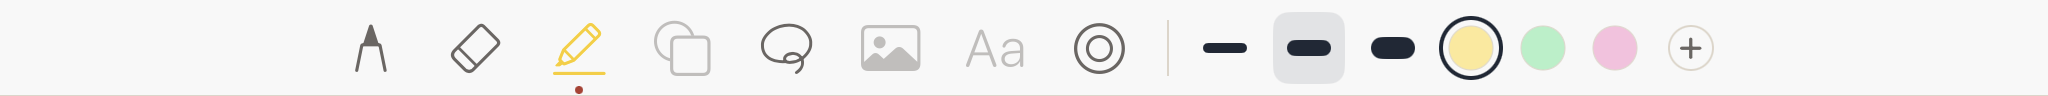
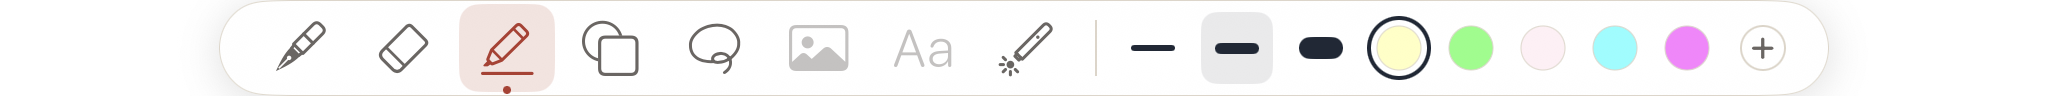
feat(EmberPad): give every tool a picture of itself, a fountain pen nib for the pen (EP105)
The fountain pen showed SF Symbols' pencil.tip, which reads as a marker, and the
laser pointer a plain target. SF Symbols has no fountain pen or laser pointer, so
both are now original template vectors in the asset catalog (ToolFountainPen: a
pen with a split nib and breather hole; ToolLaserPointer: a pointer casting a
spot with rays), turned 45 degrees and stroked to match the light SF Symbols of
the eraser, highlighter, shapes and lasso. WorksheetTool.icon replaces .symbol,
and the palette and the Pencil switch toast draw it through one ToolIconImage
view, so the selected red and unselected grey apply to every tool alike.

ToolIconTests pins each tool to its intended icon, fails if the fountain pen
ever shows a marker or pencil symbol, and checks every asset loads as a
template. Before and after captures are in docs/screenshots/ep105.

Changed region(s): [[0.125, 0.0, 0.875, 0.9688], [0.8438, 0.9688, 1.0, 1.0], [0.0, 0.9688, 0.1562, 1.0]]

diff --git a/Apps/EmberPadTests/ToolIconTests.swift b/Apps/EmberPadTests/ToolIconTests.swift
@@ -1,0 +1,115 @@
+import SwiftUI
+import UIKit
+import XCTest
+@testable import EmberPad
+
+/// EP105: every tool shows a picture of itself on the palette and in its toasts. The fountain pen is EmberPad's own
+/// nib drawing, never a marker-like SF Symbol such as `pencil.tip`, which it showed before.
+@MainActor
+final class ToolIconTests: XCTestCase {
+    private var suiteName = ""
+    private var defaults: UserDefaults!
+
+    override func setUp() {
+        super.setUp()
+        suiteName = "EmberPadTests.ToolIcon.\(UUID().uuidString)"
+        defaults = UserDefaults(suiteName: suiteName)
+    }
+
+    override func tearDown() {
+        defaults.removePersistentDomain(forName: suiteName)
+        defaults = nil
+        super.tearDown()
+    }
+
+    func testEachToolMapsToItsIntendedIcon() {
+        let expected: [WorksheetTool: ToolIcon] = [
+            .pen: .asset("ToolFountainPen"),
+            .eraser: .system("eraser"),
+            .highlighter: .system("highlighter"),
+            .shape: .system("square.on.circle"),
+            .lasso: .system("lasso"),
+            .laser: .asset("ToolLaserPointer"),
+        ]
+        XCTAssertEqual(Set(expected.keys), Set(WorksheetTool.allCases), "every tool has an intended icon")
+        for tool in WorksheetTool.allCases {
+            XCTAssertEqual(tool.icon, expected[tool], "\(tool.title)")
+        }
+    }
+
+    func testTheFountainPenIsNeverAMarkerOrPencil() {
+        // SF Symbols that draw a felt tip, chisel, pencil or brush rather than a fountain pen's nib.
+        let notAFountainPen: Set<String> = [
+            "pencil.tip", "pencil.tip.crop.circle", "applepencil.tip", "pencil", "pencil.line", "highlighter",
+            "paintbrush", "paintbrush.pointed", "pencil.and.scribble", "applepencil",
+        ]
+        if case .system(let symbol) = WorksheetTool.pen.icon {
+            XCTAssertFalse(notAFountainPen.contains(symbol), "the fountain pen shows \(symbol), a marker or pencil")
+        }
+        XCTAssertEqual(WorksheetTool.pen.icon, .asset("ToolFountainPen"), "EmberPad's own fountain pen nib")
+    }
+
+    func testEveryToolIconIsDistinct() {
+        let icons = WorksheetTool.allCases.map(\.icon)
+        XCTAssertEqual(Set(icons).count, icons.count, "no two tools share a picture")
+        XCTAssertNotEqual(WorksheetTool.pen.icon, WorksheetTool.highlighter.icon)
+    }
+
+    /// An icon that does not load would leave a blank button, so every one must resolve, and the drawings must be
+    /// template images so they take the palette's grey and selected red.
+    func testEveryToolIconLoadsAsATemplate() throws {
+        for tool in WorksheetTool.allCases {
+            switch tool.icon {
+            case .system(let name):
+                XCTAssertNotNil(UIImage(systemName: name), "\(tool.title): SF Symbol \(name)")
+            case .asset(let name):
+                let image = try XCTUnwrap(UIImage(named: name, in: .main, with: nil), "\(tool.title): asset \(name)")
+                XCTAssertEqual(image.renderingMode, .alwaysTemplate, "\(tool.title) takes the tint")
+                XCTAssertGreaterThan(image.size.width, 0)
+                XCTAssertEqual(image.size.width, image.size.height, "a square box, like a symbol")
+            }
+        }
+    }
+
+    /// The fountain pen's drawing is not blank and is not the marker-like symbol it replaced.
+    func testTheFountainPenDrawingDiffersFromTheOldMarkerSymbol() throws {
+        let side: CGFloat = 56
+        let nib = try XCTUnwrap(UIImage(named: "ToolFountainPen", in: .main, with: nil))
+        let marker = try XCTUnwrap(UIImage(systemName: "pencil.tip"))
+        let nibInk = inkMask(nib, side: side)
+        let markerInk = inkMask(marker, side: side)
+        XCTAssertGreaterThan(nibInk.filter { $0 }.count, 80, "the nib drawing has ink")
+        let differing = zip(nibInk, markerInk).filter { $0 != $1 }.count
+        XCTAssertGreaterThan(differing, nibInk.count / 20, "the fountain pen does not look like pencil.tip")
+    }
+
+    func testPencilSwitchBackToThePenToastsTheFountainPen() {
+        let tools = ToolState(defaults: defaults)
+        tools.select(.eraser)
+        XCTAssertEqual(tools.handlePencil(.switchEraser, gesture: .doubleTap), .select(.pen))
+        XCTAssertEqual(tools.toast?.icon, .asset("ToolFountainPen"))
+    }
+
+    // MARK: - Helpers
+
+    /// Which pixels of the image, drawn black into a `side` square, carry ink.
+    private func inkMask(_ image: UIImage, side: CGFloat) -> [Bool] {
+        let format = UIGraphicsImageRendererFormat()
+        format.scale = 1
+        let rendered = UIGraphicsImageRenderer(size: CGSize(width: side, height: side), format: format).image { _ in
+            UIColor.white.setFill()
+            UIRectFill(CGRect(x: 0, y: 0, width: side, height: side))
+            image.withTintColor(.black, renderingMode: .alwaysOriginal).draw(in: CGRect(x: 0, y: 0, width: side, height: side))
+        }
+        guard let cg = rendered.cgImage, let data = cg.dataProvider?.data, let bytes = CFDataGetBytePtr(data) else { return [] }
+        let perPixel = cg.bitsPerPixel / 8
+        var mask: [Bool] = []
+        for y in 0..<cg.height {
+            for x in 0..<cg.width {
+                let offset = y * cg.bytesPerRow + x * perPixel
+                mask.append(Int(bytes[offset]) + Int(bytes[offset + 1]) + Int(bytes[offset + 2]) < 384)
+            }
+        }
+        return mask
+    }
+}

diff --git a/Apps/EmberPad/ToolState.swift b/Apps/EmberPad/ToolState.swift
@@ -20,16 +20,25 @@ enum WorksheetTool: String, CaseIterable, Codable, Sendable {
         }
     }
 
-    var symbol: String {
+    /// The tool's picture on the palette and in its toasts (EP105). SF Symbols where one shows the tool; the fountain
+    /// pen and laser pointer have none, so they are EmberPad's own vector drawings in the asset catalog.
+    var icon: ToolIcon {
         switch self {
-        case .lasso: "lasso"
-        case .pen: "pencil.tip"
-        case .highlighter: "highlighter"
-        case .eraser: "eraser"
-        case .laser: "circle.circle"
-        case .shape: "square.on.circle"
+        case .lasso: .system("lasso")
+        case .pen: .asset("ToolFountainPen")
+        case .highlighter: .system("highlighter")
+        case .eraser: .system("eraser")
+        case .laser: .asset("ToolLaserPointer")
+        case .shape: .system("square.on.circle")
         }
     }
+}
+
+/// A tool's picture: an SF Symbol, or an original template vector in the asset catalog for a tool SF Symbols has no
+/// picture of (EP105).
+enum ToolIcon: Hashable, Sendable {
+    case system(String)
+    case asset(String)
 }
 
 enum EraserMode: String, CaseIterable, Codable, Sendable {
@@ -291,7 +300,7 @@ enum PencilCommand: Equatable, Sendable {
 /// A transient capsule message over the worksheet (design 5.4).
 struct ToolToast: Equatable, Identifiable {
     let id = UUID()
-    let symbol: String
+    let icon: ToolIcon
     let text: String
 }
 
@@ -371,7 +380,7 @@ final class ToolState {
         case .none: break
         case .select(let tool):
             select(tool)
-            showToast(symbol: tool.symbol, text: "\(toolTitle(tool)) · \(gesture.title)")
+            showToast(icon: tool.icon, text: "\(toolTitle(tool)) · \(gesture.title)")
         case .openSettings:
             settingsTool = settings.current
         }
@@ -484,8 +493,13 @@ final class ToolState {
 
     // MARK: - Toasts
 
+    /// Shows a toast with an SF Symbol.
     func showToast(symbol: String, text: String) {
-        let next = ToolToast(symbol: symbol, text: text)
+        showToast(icon: .system(symbol), text: text)
+    }
+
+    func showToast(icon: ToolIcon, text: String) {
+        let next = ToolToast(icon: icon, text: text)
         toast = next
         toastTask?.cancel()
         toastTask = Task { [weak self] in

diff --git a/Apps/EmberPad/ToolbarStrip.swift b/Apps/EmberPad/ToolbarStrip.swift
@@ -141,6 +141,35 @@ private enum ToolIconMetrics {
     static let height: CGFloat = 44
 }
 
+/// A tool's icon at a symbol point size (EP105). An SF Symbol takes the size and weight as a font; an asset-catalog
+/// drawing is a template image in a square box `assetScale` times the size, which gives it the same optical size and
+/// stroke as a light SF Symbol at that point size, and takes the same tint. It is decoration: the tool button and the
+/// toast text name the tool for VoiceOver.
+struct ToolIconImage: View {
+    let icon: ToolIcon
+    let size: CGFloat
+    var weight: Font.Weight = .light
+
+    static let assetScale: CGFloat = 1.1
+
+    var body: some View {
+        Group {
+            switch icon {
+            case .system(let name):
+                Image(systemName: name)
+                    .font(.system(size: size, weight: weight))
+            case .asset(let name):
+                Image(name)
+                    .renderingMode(.template)
+                    .resizable()
+                    .scaledToFit()
+                    .frame(width: size * Self.assetScale, height: size * Self.assetScale)
+            }
+        }
+        .accessibilityHidden(true)
+    }
+}
+
 private struct ToolButton: View {
     let tool: WorksheetTool
     let selected: Bool
@@ -148,8 +177,7 @@ private struct ToolButton: View {
 
     var body: some View {
         Button(action: action) {
-            Image(systemName: tool.symbol)
-                .font(.system(size: ToolIconMetrics.size, weight: .light))
+            ToolIconImage(icon: tool.icon, size: ToolIconMetrics.size)
                 .foregroundStyle(selected ? Theme.accent : Theme.text2)
                 .frame(width: ToolIconMetrics.width, height: ToolIconMetrics.height)
                 // Ember's selected tool: red on a soft red square, as before EP54 (EP57).
@@ -662,7 +690,7 @@ struct ToolToastLabel: View {
 
     var body: some View {
         HStack(spacing: 8) {
-            Image(systemName: toast.symbol)
+            ToolIconImage(icon: toast.icon, size: 15, weight: .semibold)
             Text(toast.text)
         }
         .font(.subheadline.weight(.semibold))

diff --git a/Apps/EmberPadTests/ToolbarStripScreenshotTests.swift b/Apps/EmberPadTests/ToolbarStripScreenshotTests.swift
@@ -84,6 +84,15 @@ final class ToolbarStripScreenshotTests: XCTestCase {
             let image = try render(view, size: CGSize(width: 360, height: 70), style: scheme)
             try save(image, "tool-toast-\(name(scheme))")
         }
+        // Back to the fountain pen: its toast shows the nib drawing (EP105).
+        tools.handlePencil(.switchEraser, gesture: .doubleTap)
+        let penToast = try XCTUnwrap(tools.toast)
+        XCTAssertEqual(penToast.icon, WorksheetTool.pen.icon)
+        for scheme: UIUserInterfaceStyle in [.light, .dark] {
+            let view = ToolToastLabel(toast: penToast).padding(12).background(Theme.canvas)
+            let image = try render(view, size: CGSize(width: 360, height: 70), style: scheme)
+            try save(image, "tool-toast-pen-\(name(scheme))")
+        }
     }
 
     // MARK: - Helpers

diff --git a/Apps/EmberPadTests/ToolStateTests.swift b/Apps/EmberPadTests/ToolStateTests.swift
@@ -254,7 +254,7 @@ final class ToolStateTests: XCTestCase {
         XCTAssertEqual(tools.handlePencil(.switchEraser, gesture: .doubleTap), .select(.eraser))
         XCTAssertEqual(tools.current, .eraser)
         XCTAssertEqual(tools.toast?.text, "Whole stroke eraser · Pencil double-tap", "the default eraser (EP71)")
-        XCTAssertEqual(tools.toast?.symbol, "eraser")
+        XCTAssertEqual(tools.toast?.icon, .system("eraser"))
         XCTAssertEqual(tools.handlePencil(.switchEraser, gesture: .doubleTap), .select(.highlighter))
         XCTAssertEqual(tools.current, .highlighter)
         XCTAssertEqual(tools.toast?.text, "Highlighter · Pencil double-tap")

diff --git a/Apps/EmberPad/SelectionOverlay.swift b/Apps/EmberPad/SelectionOverlay.swift
@@ -236,7 +236,7 @@ final class InkSelectionController {
         }
         host.session.update(canvas.drawing, page: page)
         guard show(indices, page: page, outline: loop) else { return false }
-        host.tools.showToast(symbol: WorksheetTool.lasso.symbol, text: "Circle to lasso · selected")
+        host.tools.showToast(icon: WorksheetTool.lasso.icon, text: "Circle to lasso · selected")
         return true
     }
 

diff --git a/README.md b/README.md
@@ -218,7 +218,7 @@ Theme tokens are defined in `Apps/EmberPad/Theme.swift`; the app chrome uses lig
 
 The AppIcon (EP74: the Ember red star on navy, its bottom point a pen nib writing a cream stroke, with a bolder-nib rendition for 40 px and below) and `bg`-coloured iOS launch screen, plus the Companion's monochrome menu-bar glyph and window badge, are documented with their vector sources and raster exporters in the [iPad](Apps/EmberPad/Brand.Sources/README.md) and [Companion](Apps/Companion/Brand.Sources/README.md) source notes. The [home-screen icon screenshot](docs/screenshots/home-screen-icon.png) predates EP74 and still shows the earlier worksheet-and-pen icon.
 
-Tools come from the floating tool palette (`ToolbarStrip.swift`), which floats over the page at the top unless it has been moved (EP101, below), the same on 17.5 and 18; there is no `PKToolPicker` and no Tools menu. It is centred and follows GoodNotes' order: fountain pen, eraser, highlighter, shapes (EP64), lasso, greyed image and text (a tap on a greyed one shows a "coming later" toast), then the laser pointer | the active tool's controls. The selected tool is Ember red on a soft red square. Pen and highlighter each show three widths as strokes of rising thickness, then their colour presets (three for the pen and GoodNotes' five for the highlighter by default, up to 12 through the system colour picker); the eraser switches Partial or Whole stroke, with the same three sizes for both (EP99). Tapping the selected tool again opens its settings popover: the pen's Tip sharpness slider, colour reorder and removal, the highlighter's straight-line switches, and the pen-gesture switches: Draw and hold (straight line), Circle to lasso and Scribble to erase. `ToolState` persists the current and previous tool, presets, widths, eraser mode and size, the pen's tip sharpness and pressure setting, and those switches in `UserDefaults` (`toolState.v1`, colours as hex), and sets the PencilKit tool on every page canvas. Apple Pencil double-tap and Pencil Pro squeeze follow the iPad's own setting: switch to eraser, switch to previous, or open the current tool's settings; ignore and system shortcut do nothing. Every switch shows a toast on the page for 1.3 s, below the top of the page and clear of the palette there (above the palette when it is at the bottom). Worksheet drawing is Pencil-only; fingers pan/zoom. Undo/redo buttons and multi-finger double-taps route to the active canvas. Validate the eraser modes, double-tap and touch/undo behavior on the actual iPad before relying on them. See the strip with the [pen](docs/screenshots/toolbar-strip-pen-light.png) ([dark](docs/screenshots/toolbar-strip-pen-dark.png)), [highlighter](docs/screenshots/toolbar-strip-highlighter-light.png), [eraser](docs/screenshots/toolbar-strip-eraser-light.png) and [lasso](docs/screenshots/toolbar-strip-lasso-light.png) selected, the pen settings popover ([light](docs/screenshots/tool-settings-pen-light.png), [dark](docs/screenshots/tool-settings-pen-dark.png)) the highlighter settings popover ([light](docs/screenshots/tool-settings-highlighter-light.png)) and the [Pencil toast](docs/screenshots/tool-toast-light.png).
+Tools come from the floating tool palette (`ToolbarStrip.swift`), which floats over the page at the top unless it has been moved (EP101, below), the same on 17.5 and 18; there is no `PKToolPicker` and no Tools menu. It is centred and follows GoodNotes' order: fountain pen, eraser, highlighter, shapes (EP64), lasso, greyed image and text (a tap on a greyed one shows a "coming later" toast), then the laser pointer | the active tool's controls. Each tool shows a picture of itself (EP105): the fountain pen is a pen with a split nib and the laser pointer a pointer casting a red spot, both EmberPad's own template vectors in the asset catalog (`ToolFountainPen`, `ToolLaserPointer`) drawn to match the light SF Symbols of the other tools (eraser, highlighter, shapes, lasso), and a Pencil switch's toast shows the same picture; see the [before and after](docs/screenshots/ep105/toolbar-before-after-light.png) ([dark](docs/screenshots/ep105/toolbar-before-after-dark.png)). The selected tool is Ember red on a soft red square. Pen and highlighter each show three widths as strokes of rising thickness, then their colour presets (three for the pen and GoodNotes' five for the highlighter by default, up to 12 through the system colour picker); the eraser switches Partial or Whole stroke, with the same three sizes for both (EP99). Tapping the selected tool again opens its settings popover: the pen's Tip sharpness slider, colour reorder and removal, the highlighter's straight-line switches, and the pen-gesture switches: Draw and hold (straight line), Circle to lasso and Scribble to erase. `ToolState` persists the current and previous tool, presets, widths, eraser mode and size, the pen's tip sharpness and pressure setting, and those switches in `UserDefaults` (`toolState.v1`, colours as hex), and sets the PencilKit tool on every page canvas. Apple Pencil double-tap and Pencil Pro squeeze follow the iPad's own setting: switch to eraser, switch to previous, or open the current tool's settings; ignore and system shortcut do nothing. Every switch shows a toast on the page for 1.3 s, below the top of the page and clear of the palette there (above the palette when it is at the bottom). Worksheet drawing is Pencil-only; fingers pan/zoom. Undo/redo buttons and multi-finger double-taps route to the active canvas. Validate the eraser modes, double-tap and touch/undo behavior on the actual iPad before relying on them. See the strip with the [pen](docs/screenshots/toolbar-strip-pen-light.png) ([dark](docs/screenshots/toolbar-strip-pen-dark.png)), [highlighter](docs/screenshots/toolbar-strip-highlighter-light.png), [eraser](docs/screenshots/toolbar-strip-eraser-light.png) and [lasso](docs/screenshots/toolbar-strip-lasso-light.png) selected, the pen settings popover ([light](docs/screenshots/tool-settings-pen-light.png), [dark](docs/screenshots/tool-settings-pen-dark.png)) the highlighter settings popover ([light](docs/screenshots/tool-settings-highlighter-light.png)) and the [Pencil toast](docs/screenshots/tool-toast-light.png).
 
 **Moving the tool palette** (EP100, made floating in EP101, carried with no hold in EP102). GoodNotes 6's Writing Tools menu floats over the page: its support article says to drag the floating menu to a screen edge, where it snaps to the top, bottom, left or right and turns upright on the sides. Ember Slate's tool palette works the same way. It is a rounded capsule as long as its tools, floating 10 pt in from an edge of the worksheet below the header, and the page no longer makes room for it: the page runs under it, as in GoodNotes. As in GoodNotes 6 there is no hold (EP102): touch the palette with a finger (on a tool or between them) and drag, and the palette itself moves with the finger once it has travelled 6 pt (less is a tap's drift), raised a little, with the tool the finger landed on staying under the finger the whole way; that tool is not chosen. A finger held still on it for 0.3 s picks it up too. While it is carried it keeps its shape, and the band of the edge it would land on is outlined. Let go and it snaps with a short spring (a 0.2 s ease with Reduce Motion) to the edge nearest the finger, or to where a flick was heading, and along that edge it lands where it was carried to (straight in to the edge when it stays flat or upright, centred on the finger when it turns), kept whole on the screen. Across the top (the default, centred) or the bottom it lies flat; down the left or right it is a 56 pt column with the same tools in the same order, then the active tool's widths and colours stacked, the eraser's Partial and Whole as two buttons, and no lasso or laser hint (they need a row's width). When its tools are longer than the edge it scrolls. The Teacher copy panel slides over the palette like Slide Over, and on the pull tab's side the palette keeps clear of the tab, so the tab and the edge swipe (EP97) still work. The page pill moves up above a palette at the bottom. The edge and the place along it are kept with the other tool settings (`toolbarDock` and `toolbarAlong`, 0 to 1, in `toolState.v1`; settings stored before EP100 read as the top and before EP101 as centred), so every worksheet and the next launch open with the palette where it was left. Only a finger moves it: Apple Pencil never does, so a Pencil tap on the palette still picks a tool and Pencil writing on the page carries on while a finger moves it. A touch that lifts before it moves is a tap. When the palette is too long for its edge and scrolls, a drag along it scrolls it, and a drag across it (or after a hold) carries it. Every tool, its controls and its settings popover work on every edge, and a popover opens over the page beside the palette. Read-only hides the palette on every edge. VoiceOver offers Move tools to the top, bottom, left and right on the palette. Why EP100's row never moved on the iPad (EP101): a hold on a tool landed on a SwiftUI button, whose own touch recogniser began at once and, because a long press can be prevented by default, UIKit failed the hold within a millisecond, long before 0.3 s. The palette's recogniser now cannot be prevented, and when it begins it cancels the button's touch so the held tool is not tapped. The unit test could not catch this because it fed the drag's phases to the editor directly; `EmberPadUITests/ToolbarFingerDragUITests.swift` now drives real touches through UIKit (XCUITest press and drag, launched with the debug-only `-EmberPadUITestWorksheet` argument, which seeds a synthetic worksheet): it holds a tool and drags the palette to every edge, checks taps still pick tools, and reopens the worksheet to find the palette where it was left. It fails on the EP100 build and passes now. Why EP101's drag felt laggy and stepped (EP102): it was a 0.3 s long press, so nothing moved until the hold ended; it then hid the palette and drew a smaller raised copy centred on the finger, so the tool the finger held jumped away from under it; the copy flipped between a row and a column as the target edge changed, inside a spring animation; and every move rewrote state on the whole editor screen. Now the palette itself is moved by a render-only offset that only the palette reads, from a recogniser that begins after a few points of travel. `EmberPadUITests/ToolbarDragTrackingUITests.swift` measures it with real touches through the debug-only `ToolbarDragProbe`, which on every display frame compares where the held point of the palette is drawn with the finger. In the Simulator, a held drag on the EP101 build drew the held tool up to 129 pt from the finger (median 115 pt) and dropped frames (50 ms gaps), and a drag with no hold never moved it; now a drag with no hold picks it up within two frames, it is drawn a median 7 pt from the finger at 400 pt/s, which is exactly the one frame any drawing takes to show the finger's latest move, and never more than that one frame behind, with no dropped frames. See the Simulator captures (synthetic worksheet): the [palette at the top](docs/screenshots/ep100/top.png), [carried over the right edge](docs/screenshots/ep100/lifted.png), floating on the [right](docs/screenshots/ep100/right.png), [bottom](docs/screenshots/ep100/bottom.png) and [left](docs/screenshots/ep100/left.png), the [eraser down the left](docs/screenshots/ep100/left-eraser.png), and the pen's settings from the [right](docs/screenshots/ep100/right-pen-settings.png), [bottom](docs/screenshots/ep100/bottom-pen-settings.png) and [left](docs/screenshots/ep100/left-pen-settings.png). The feel of the drag and the snap still need the device check.
 
